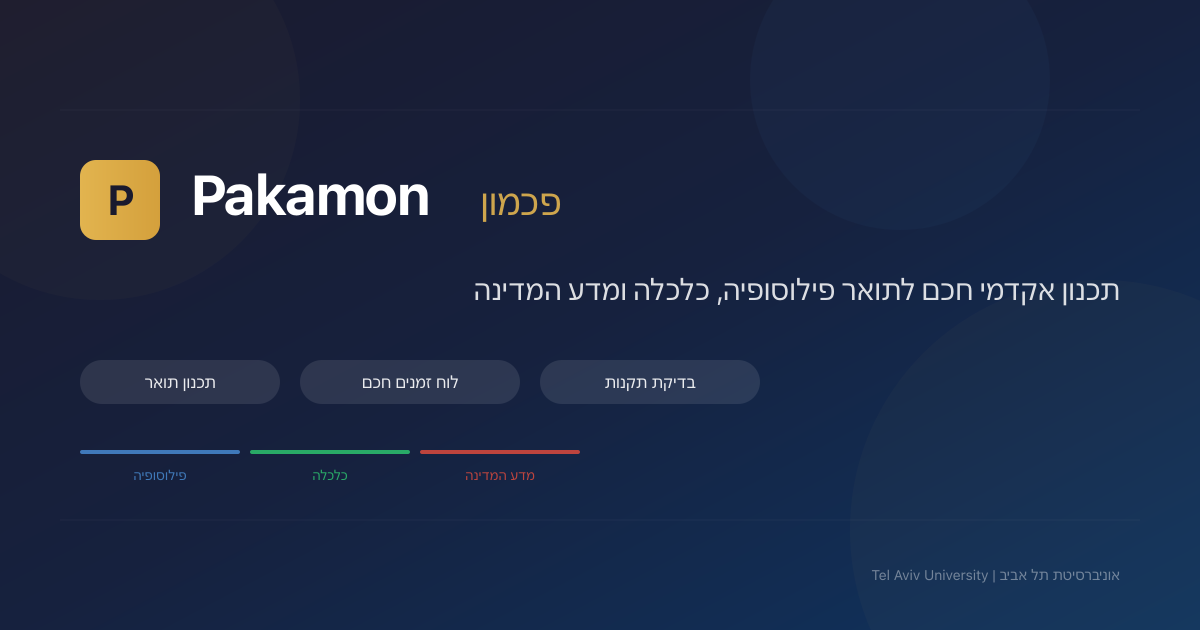
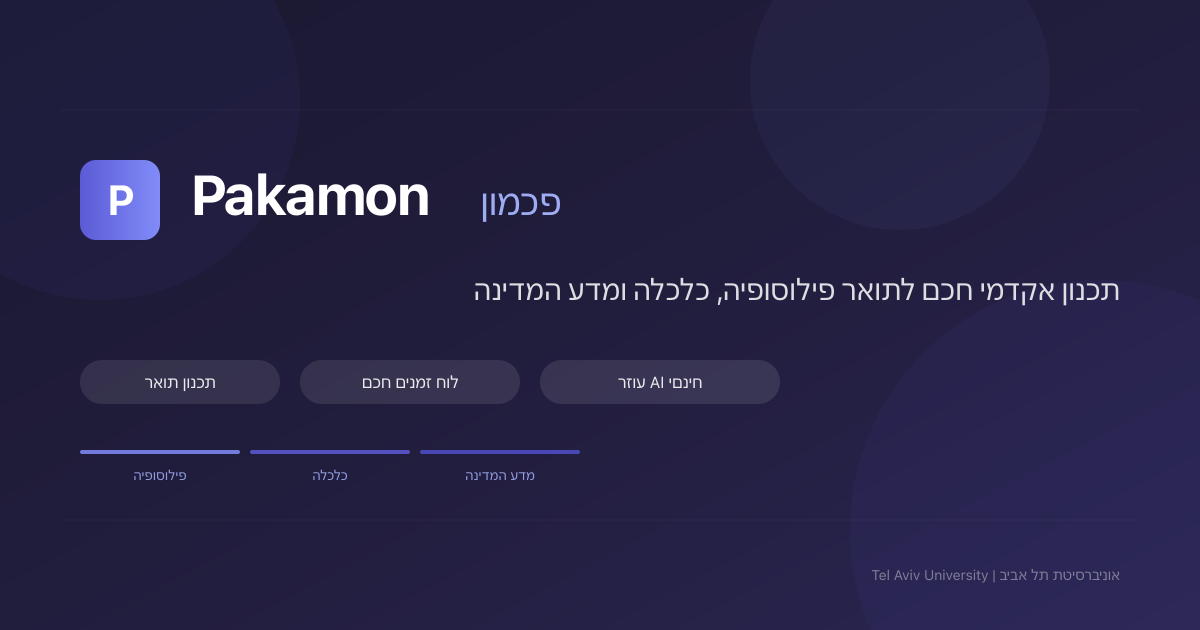
feat: rebrand the share preview to indigo + humanize miluim group copy
- #32: the WhatsApp/social share image (og-image) still used the old gold +
  blue/green/red palette — jarring and off-brand. Redesigned it to the indigo
  brand (Studio Clarity), regenerated the 1200×630 PNG. Now matches the app.
- #4: the Group-B/C miluim eligibility text was a crammed run-on ("21-34; or
  combat 14-20; or 35+; or 60+; or 100+") that read like a copy-paste. Rewrote
  both as natural Hebrew/English sentences without losing any criterion.
All green: tsc / lint / build.

diff --git a/src/lib/constants.ts b/src/lib/constants.ts
@@ -408,8 +408,8 @@ export const MILUIM_CONFIG = {
     GROUP_B: {
       nameHe: "קבוצה B — 21 עד 34 ימים בסמסטר",
       nameEn: "Group B — 21-34 days per semester",
-      descHe: "21-34 ימים בסמסטר; או לוחמים 14-20 ימים; או 35+ ימים מצטברים בשנת תשפ\"ו (סמ׳ ב׳); או 60+ ימים לפני פתיחת סמסטר; או 100+ בתשפ\"ה (סמ׳ א׳ רטרואקטיבית)",
-      descEn: "21-34 days/semester; or combat 14-20 days; or 35+ cumulative in year (sem B); or 60+ days before semester; or 100+ in prev year (sem A retroactive)",
+      descHe: "שירות של 21–34 ימים בסמסטר. נכללים גם: לוחמים עם 14–20 ימים, מי שצבר 35+ ימים במהלך השנה, 60+ ימים לפני תחילת הסמסטר, או 100+ ימים בשנה הקודמת.",
+      descEn: "21–34 days of service in a semester. Also included: combat soldiers with 14–20 days, anyone with 35+ cumulative days during the year, 60+ days before the semester starts, or 100+ days in the previous year.",
       criteria: "21-34 ימים/סמסטר | לוחמים 14-20 | 35+ בשנה | 60+ לפני סמסטר | 100+ בתשפ\"ה",
       criteriaEn: "21-34 days/sem | combat 14-20 | 35+ in year | 60+ pre-semester | 100+ prev year",
       creditExemptionPerYear: 6,   // 6 ש"ס per year
@@ -439,8 +439,8 @@ export const MILUIM_CONFIG = {
     GROUP_C: {
       nameHe: "קבוצה C — 35 ימים ומעלה בסמסטר",
       nameEn: "Group C — 35+ days per semester",
-      descHe: "35+ ימים מצטברים בסמסטר; או 100+ ימים בסמ׳ א׳ (מזכה גם בסמ׳ ב׳). לוחמים: 21+ ימים בסמסטר",
-      descEn: "35+ cumulative days/semester; or 100+ days in sem A (gives C in sem B too). Combat: 21+ days/semester",
+      descHe: "שירות של 35+ ימים בסמסטר (או 100+ ימים בסמסטר א׳ — שמזכה אוטומטית גם בסמסטר ב׳). לוחמים: כבר מ-21 ימים בסמסטר.",
+      descEn: "35+ days of service in a semester (or 100+ days in semester A, which also grants Group C in semester B). Combat soldiers: from 21 days per semester.",
       criteria: "35+ ימים/סמסטר | 100+ בסמ׳ א׳→גם ב׳ | לוחמים: 21+",
       criteriaEn: "35+ days/sem | 100+ in sem A→also B | Combat: 21+",
       creditExemptionPerYear: 8,   // 8 ש"ס per year
